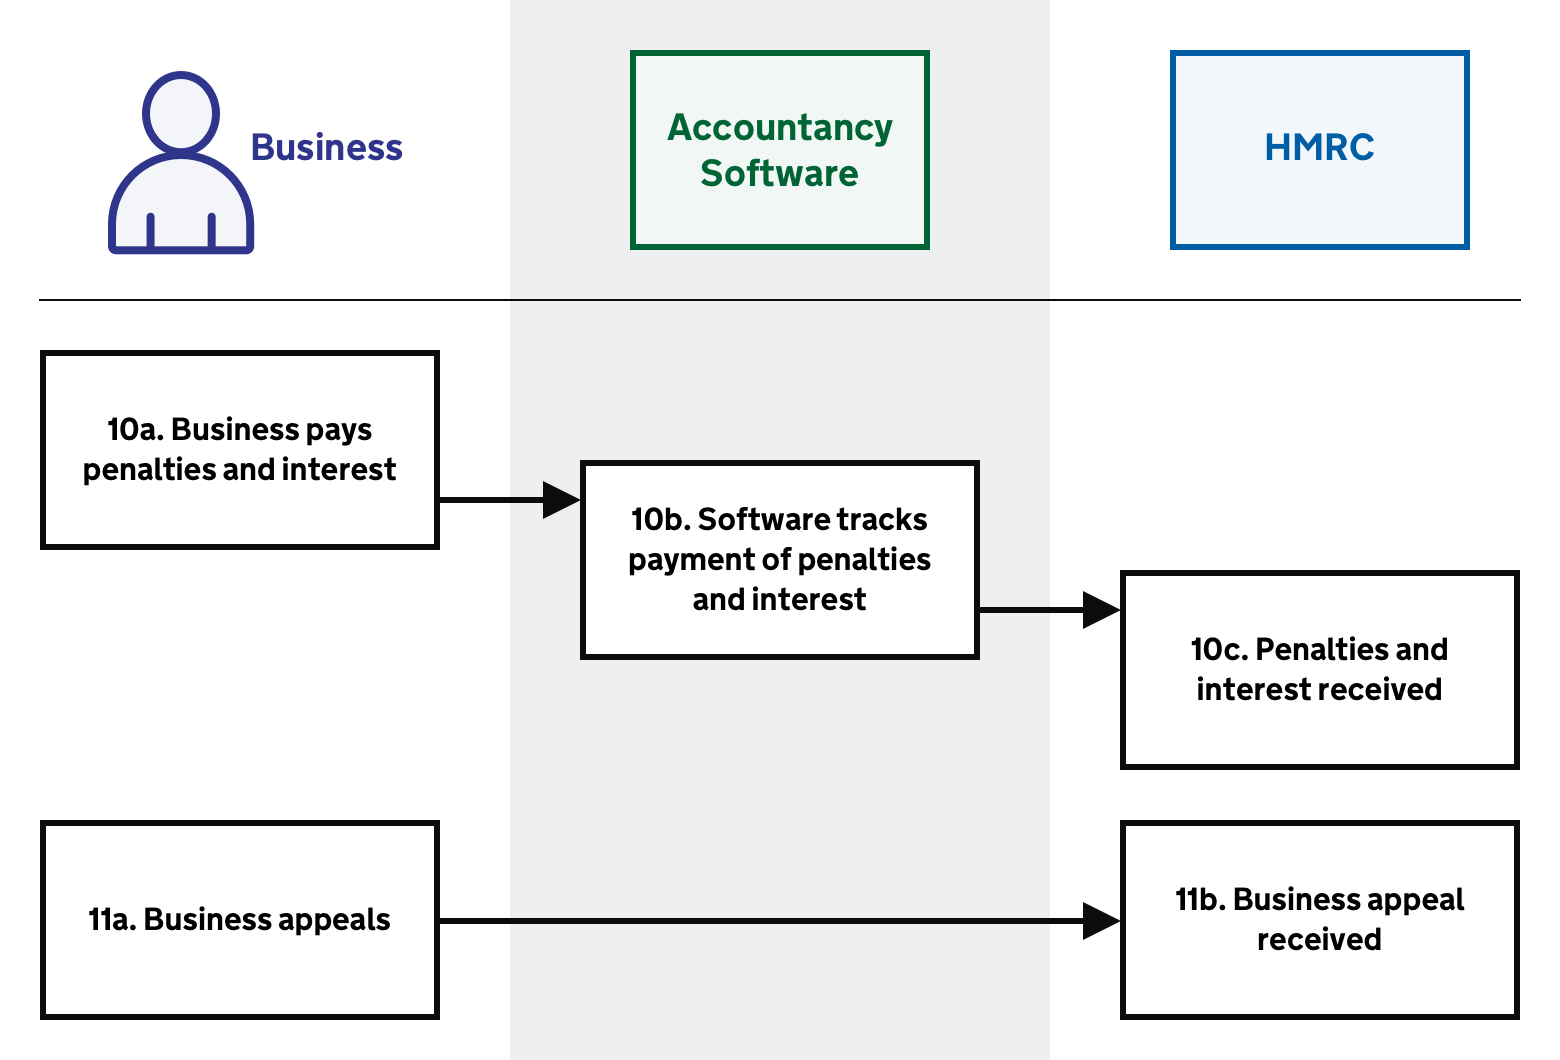
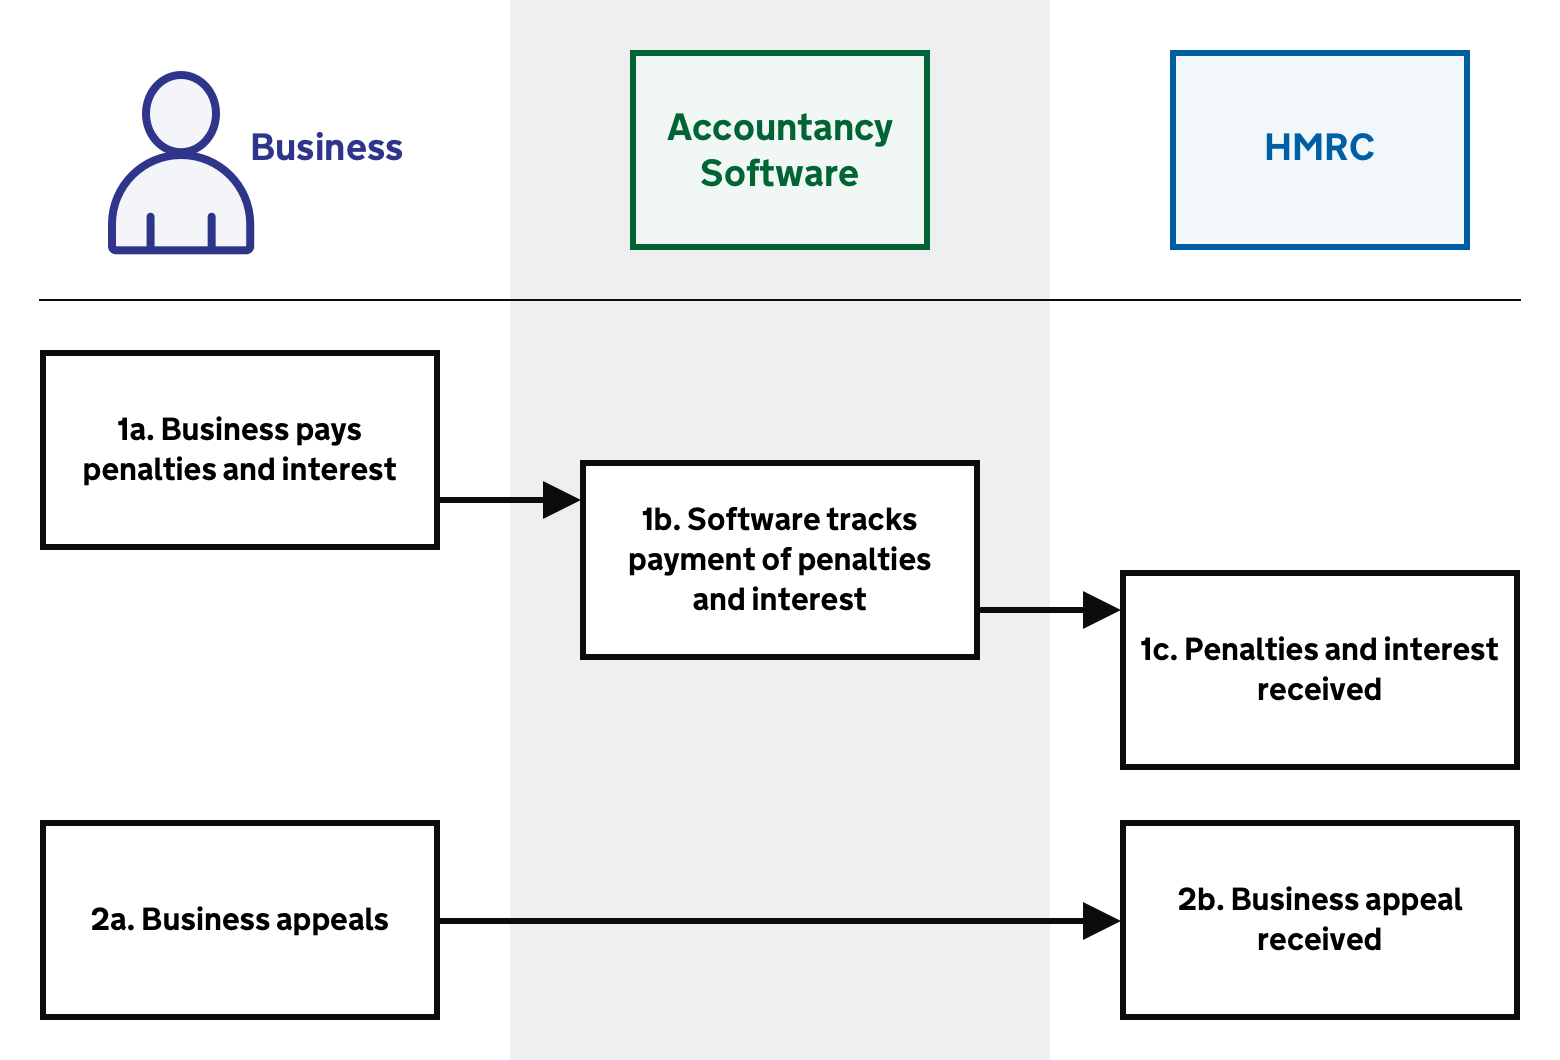
changed numbering on diagrams

diff --git a/source/documentation/closedown.html.md b/source/documentation/closedown.html.md
@@ -11,11 +11,10 @@ alt="Agent closedown process diagram" border="1px"; style="width:520px;" />
 
 <a href="figures/agent-closedown.png" target="blank">Open the agent closedown process diagram in a new tab</a>
 
-<ol start="14">
-  <li><a href="#unsubscribe-client-from-vat-mtd">Agent unsubscribes client from MTD</a></li>
-  <li><a href="#client-breaks-link">Client breaks agent-client link</a></li>
-  <li><a href="#change-details">Agent changes details</a></li>
-</ol>
+1. [Agent unsubscribes client from MTD](#unsubscribe-client-from-vat-mtd)
+2. [Client breaks agent-client link](#client-breaks-link)
+3. [Agent changes details](#change-details)
+
 
 Businesses may choose to unsubscribe from VAT MTD.
 
@@ -24,9 +23,7 @@ alt="Business closedown process diagram" border="1px"; style="width:520px;" />
 
 <a href="figures/business-closedown.png" target="blank">Open the business closedown process diagram in a new tab</a>
 
-<ol start="12">
-  <li><a href="#unsubscribe-client-from-vat-mtd">Business unsubscribes from MTD</a></li>
-</ol>
+1. [Business unsubscribes from MTD](#unsubscribe-client-from-vat-mtd)
 
 ## Unsubscribe client from VAT (MTD)
 

diff --git a/source/documentation/penalties.html.md b/source/documentation/penalties.html.md
@@ -11,10 +11,8 @@ alt="Agent penalties process diagram" border="1px"; style="width:520px;" />
 
 <a href="figures/agent-penalties.png" target="blank">Open the agent penalties process diagram in a new tab</a>
 
-<ol start="12">
-  <li><a href="#pay-penalties-and-interest">Client pays penalties and interest</a></li>
-  <li><a href="#appeal">Agent appeals</a></li>
-</ol>
+1. [Client pays penalties and interest](#pay-penalties-and-interest)
+2. [Agent appeals](#appeal)
 
 The business journey for penalty and interest payments and appeals.
 
@@ -23,10 +21,8 @@ alt="Business penalties and appeals process diagram" border="1px"; style="width:
 
 <a href="figures/business-penalties.png" target="blank">Open the business penalties process diagram in a new tab</a>
 
-<ol start="10">
-  <li><a href="#pay-penalties-and-interest">Business pays penalties and interest</a></li>
-  <li><a href="#appeal">Business appeals</a></li>
-</ol>
+1. [Business pays penalties and interest](#pay-penalties-and-interest)
+2. [Business appeals](#appeal)
 
 ## Pay penalties and interest
 
